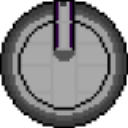
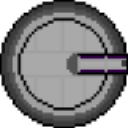
Improvements

diff --git a/frontend/lib/domain/components/turret_component.dart b/frontend/lib/domain/components/turret_component.dart
@@ -1,6 +1,9 @@
 import 'dart:async';
+import 'dart:math';
 import 'package:commandos/domain/components/game_component.dart';
+import 'package:commandos/domain/components/laser_component.dart';
 import 'package:commandos/domain/models/collision_group.dart';
+import 'package:commandos/domain/models/laser.dart';
 import 'package:commandos/domain/models/turret.dart';
 import 'package:commandos/extensions/body_component_extension.dart';
 import 'package:commandos/utils/assets.dart';
@@ -8,9 +11,11 @@ import 'package:flame/components.dart';
 import 'package:flame_forge2d/flame_forge2d.dart';
 
 class TurretComponent extends BodyComponent<GameComponent> {
+  final NearestBoxRayCastCallback rayCastCallback = NearestBoxRayCastCallback();
   final Vector2 initialPosition;
   final Vector2 size;
   final Turret turret;
+  final List<LaserComponent> lasers = [];
 
   TurretComponent({
     required this.initialPosition,
@@ -25,9 +30,18 @@ class TurretComponent extends BodyComponent<GameComponent> {
       TurretSpriteComponent(
         turret: turret,
         size: size,
-        angle: radians(turret.angle),
       ),
     );
+
+    for (final Laser laser in turret.lasers) {
+      final LaserComponent laserComponent = LaserComponent(
+        laser: laser,
+        start: initialPosition,
+        end: initialPosition,
+      );
+      lasers.add(laserComponent);
+      await add(laserComponent);
+    }
   }
 
   @override
@@ -38,6 +52,23 @@ class TurretComponent extends BodyComponent<GameComponent> {
     angle: radians(turret.angle),
     group: CollisionGroup.TURRET,
   );
+
+  @override
+  void update(double dt) {
+    super.update(dt);
+
+    for (final LaserComponent laser in lasers) {
+      final Vector2 direction = Vector2(
+        cos(body.angle + laser.laser.angle),
+        sin(body.angle + laser.laser.angle),
+      );
+      final Vector2 startPoint = body.position;
+      final Vector2 rayTarget = startPoint + direction * laser.laser.length;
+      world.raycast(rayCastCallback, startPoint, rayTarget);
+      final Vector2 endPoint = rayCastCallback.nearestPoint ?? rayTarget;
+      laser.updatePoints(start: startPoint, end: endPoint);
+    }
+  }
 }
 
 class TurretSpriteComponent extends SpriteComponent {
@@ -46,7 +77,6 @@ class TurretSpriteComponent extends SpriteComponent {
   TurretSpriteComponent({
     required this.turret,
     required super.size,
-    required super.angle,
   }) : super(anchor: Anchor.center);
 
   @override

diff --git a/frontend/lib/extensions/body_component_extension.dart b/frontend/lib/extensions/body_component_extension.dart
@@ -22,6 +22,7 @@ extension ComponentExtension on BodyComponent {
       center: center,
       bodyType: bodyType,
       group: group,
+      angle: angle,
     );
   }
 
@@ -46,6 +47,7 @@ extension ComponentExtension on BodyComponent {
       center: center,
       bodyType: bodyType,
       group: group,
+      angle: angle,
     );
   }
 
@@ -87,11 +89,11 @@ extension ComponentExtension on BodyComponent {
   }
 
   List<Vector2> shapeSquare(Vector2 size) => [
-      Vector2(-size.x / 2, -size.y / 2),
-      Vector2(size.x / 2, -size.y / 2),
-      Vector2(size.x / 2, size.y / 2),
-      Vector2(-size.x / 2, size.y / 2),
-    ];
+    Vector2(-size.x / 2, -size.y / 2),
+    Vector2(size.x / 2, -size.y / 2),
+    Vector2(size.x / 2, size.y / 2),
+    Vector2(-size.x / 2, size.y / 2),
+  ];
 
   List<Vector2> shapeRombus(Vector2 size) => [
     Vector2(0, -size.y / 2),
@@ -108,5 +110,30 @@ extension ComponentExtension on BodyComponent {
       paint.style = PaintingStyle.stroke;
       paint.strokeWidth = 0.3;
     }
+  }
+}
+
+class NearestBoxRayCastCallback extends RayCastCallback {
+  Object? object;
+  Vector2? nearestPoint;
+
+  void reset() {
+    object = null;
+    nearestPoint = null;
+  }
+
+  @override
+  double reportFixture(
+    Fixture fixture,
+    Vector2 point,
+    Vector2 normal,
+    double fraction,
+  ) {
+    nearestPoint = point.clone();
+    object = fixture.userData;
+
+    // Returning fraction implies that we care only about fixtures
+    // that are closer to the ray start point than the current fixture
+    return fraction;
   }
 }

diff --git a/frontend/lib/domain/components/laser_component.dart b/frontend/lib/domain/components/laser_component.dart
@@ -1,0 +1,34 @@
+import 'dart:ui';
+import 'package:commandos/domain/models/laser.dart';
+import 'package:commandos/utils/palette.dart';
+import 'package:flame/components.dart';
+
+class LaserComponent extends Component {
+  final Laser laser;
+  final Vector2 start;
+  final Vector2 end;
+  final Paint paint = Palette.paint(
+    style: PaintingStyle.stroke,
+    color: Palette.LASER,
+    strokeWidth: 3,
+  );
+
+  LaserComponent({
+    required this.laser,
+    required this.start,
+    required this.end,
+  });
+
+  void updatePoints({
+    required Vector2 start,
+    required Vector2 end,
+  }) {
+    start.setFrom(start);
+    end.setFrom(end);
+  }
+
+  @override
+  void render(Canvas canvas) {
+    canvas.drawLine(start.toOffset(), end.toOffset(), paint);
+  }
+}

diff --git a/frontend/lib/utils/palette.dart b/frontend/lib/utils/palette.dart
@@ -5,4 +5,38 @@ class Palette {
   static const Color transparent = Colors.transparent;
 
   static const Color GAME_BACKGROUND = Colors.black;
+
+  static const Color LASER = Colors.red;
+
+  static Paint paint({
+    PaintingStyle? style,
+    Color? color,
+    double? strokeWidth,
+    StrokeCap? strokeCap,
+    StrokeJoin? strokeJoin,
+  }) {
+    final Paint paint = Paint();
+
+    if (color != null) {
+      paint.color = color;
+    }
+
+    if (strokeWidth != null) {
+      paint.strokeWidth = strokeWidth;
+    }
+
+    if (style != null) {
+      paint.style = style;
+    }
+
+    if (strokeCap != null) {
+      paint.strokeCap = strokeCap;
+    }
+
+    if (strokeJoin != null) {
+      paint.strokeJoin = strokeJoin;
+    }
+
+    return paint;
+  }
 }

diff --git a/frontend/lib/assets/levels/gym.dart b/frontend/lib/assets/levels/gym.dart
@@ -668,7 +668,7 @@ class LevelGym {
         "x": 105,
         "y": 35
       },
-      "angle": 180.0,
+      "angle": 90.0,
       "lasers": [
         {
           "angle": 0.0,
